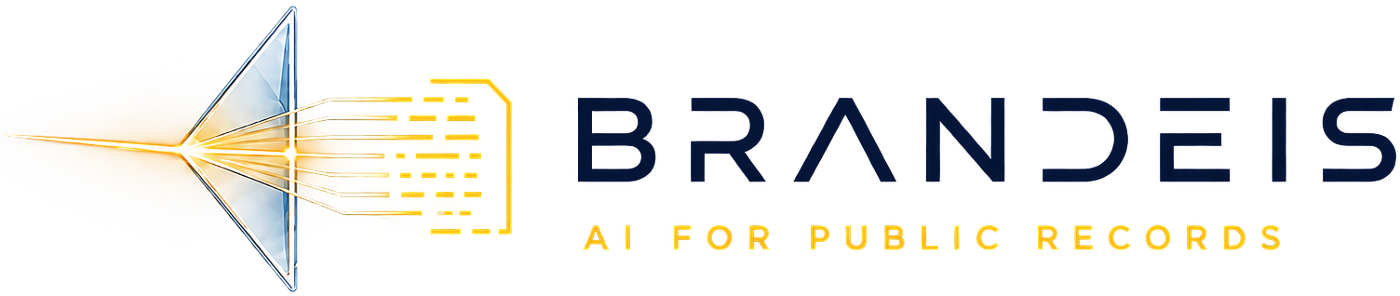
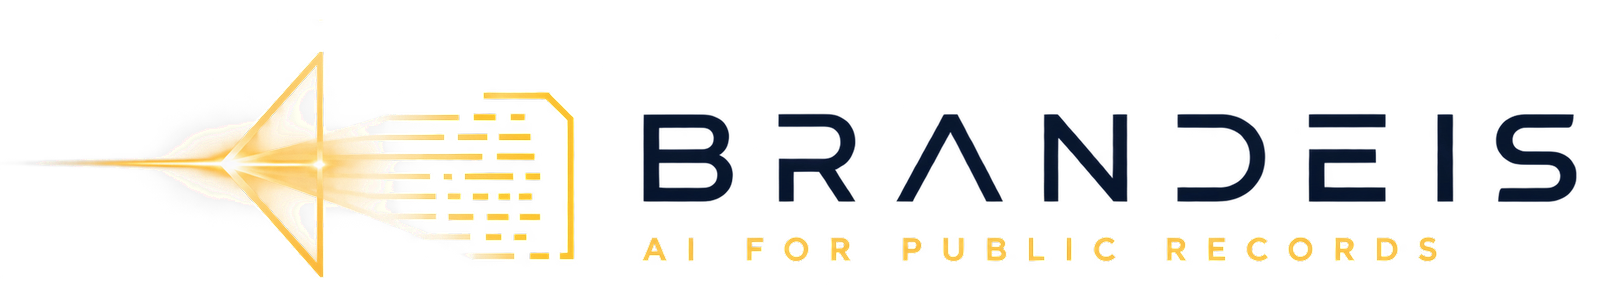
Replace brand lockups and marks with new transparent renders
Regenerated all four raster brand assets from the owner's 4096px
transparent PNG renders (2026-08-13):

- brandeis-lockup-{dark,light}.png: cropped to content and downscaled
  to 1600px wide (1600x295 dark, 1600x301 light).
- mark-{dark,light}.png: prism cropped out of each render, fitted and
  centred on the shared 252x124 canvas so the header layout box stays
  stable across theme flips.

The new renders carry a real alpha channel, so the black-plate keying
the previous dark rev needed no longer applies; downscales were done
premultiplied to keep the glow edges halo-free. README updated to
match the new provenance and dimensions.

Claude-Session: https://claude.ai/code/session_0142bbZVArL2WdRpRpiXcBbs

Changed region(s): [[0.3993, 0.3041, 1.0, 0.6993], [0.0, 0.0304, 0.3686, 0.973], [0.3993, 0.7601, 0.9214, 0.8818]]

diff --git a/public/brand/README.md b/public/brand/README.md
@@ -4,13 +4,14 @@ Four files, two jobs.
 
 ## Full lockups — hero use
 
-- `brandeis-lockup-dark.png` (1300×445) — white wordmark, gold tagline.
-- `brandeis-lockup-light.png` (1400×296) — navy wordmark, gold tagline.
-  Cropped from a 3072×2048 export that was mostly transparent padding.
+- `brandeis-lockup-dark.png` (1600×295) — white wordmark, gold tagline.
+- `brandeis-lockup-light.png` (1600×301) — navy wordmark, gold tagline.
 
-Both were supplied as `.svg` files that are **rasters in disguise**: a single
-`<image>` element holding a base64 PNG, zero `<path>` data. They do not scale
-and cannot be recoloured, so they are used as images, not as the mark.
+Both are cropped and downscaled from the owner's 4096px transparent PNG
+renders (2026-08-13). Unlike the first round of assets, these were rendered
+with a real alpha channel — no black plate to key off. They are still
+rasters: they do not scale past the source and cannot be recoloured, so they
+are used as images, not as the mark.
 
 **Use them large, and match the revision to the ground.** At 26px (nav
 height) the outlined letterforms and the record's data grid collapse into an
@@ -18,8 +19,9 @@ illegible smear. These are hero lockups, ~120px and up.
 
 ## Marks — header use
 
-- `mark-dark.png`, `mark-light.png` — the prism cropped out of the lockups
-  above, downscaled to 124px of content on a shared **252×124** canvas.
+- `mark-dark.png`, `mark-light.png` — the prism cropped out of the lockup
+  renders above (everything left of the gap before the wordmark), fitted
+  inside a shared **252×124** canvas and centred.
 
 `<BrandMarkRaster>` swaps them with `<picture>` + `prefers-color-scheme`, and
 `<BrandLockup>` sets the type beside them. Each render has its glow baked
@@ -28,18 +30,19 @@ dirty grey plate on paper, and the light rev's navy inverts that problem.
 
 To regenerate them from a new pair of renders, two steps are load-bearing:
 
-**The dark revision is keyed off black.** It was rendered as glow on solid
-black and the black survived the crop — 43% of every pixel the file drew was
-near-opaque black, which painted a visible plate around the mark on the nav's
-near-black ground. The artwork is additive light, so luminance is coverage:
-`alpha := max(r,g,b)`, colour unpremultiplied back off black. Key at full
-resolution, before the downscale, or the edges resample against a halo.
+**Downscale premultiplied.** Resample RGB×alpha, then unpremultiply — the
+soft glow edges otherwise resample against whatever colour sits in the
+transparent pixels and grow a halo. (The previous renders were worse: glow
+on solid black with no alpha at all, which needed `alpha := max(r,g,b)`
+keying before any of this. If a future render arrives flattened like that
+again, key it at full resolution, before the downscale.)
 
 **The canvas is shared.** The two revisions have genuinely different content
-widths (the light rev draws more of the incoming beam), so the narrower is
-centred with transparent padding. Crop them tight instead and the header's
-layout box changes width the moment a visitor's OS flips theme. If you
-regenerate one, regenerate both, onto the same canvas.
+proportions (the prisms run slightly wider than 252:124, so each is fitted
+by width — dark lands at 252×114 of content, light at 252×118 — and centred
+vertically). Crop them tight instead and the header's layout box changes
+the moment a visitor's OS flips theme. If you regenerate one, regenerate
+both, onto the same canvas.
 
 ## Which asset where
 
@@ -52,4 +55,5 @@ To replace the rasters with a true vector, export with text converted to
 outlines and shapes as paths (Illustrator: Save As → SVG, *Preserve
 Illustrator Editing* off; Figma: Export → SVG with "Outline text" on). A
 correct export contains `<path>` elements. A file containing
-`<image ... base64>` is a bitmap in disguise, like all of these.
+`<image ... base64>` is a bitmap in disguise — the first-round assets
+arrived exactly that way.
